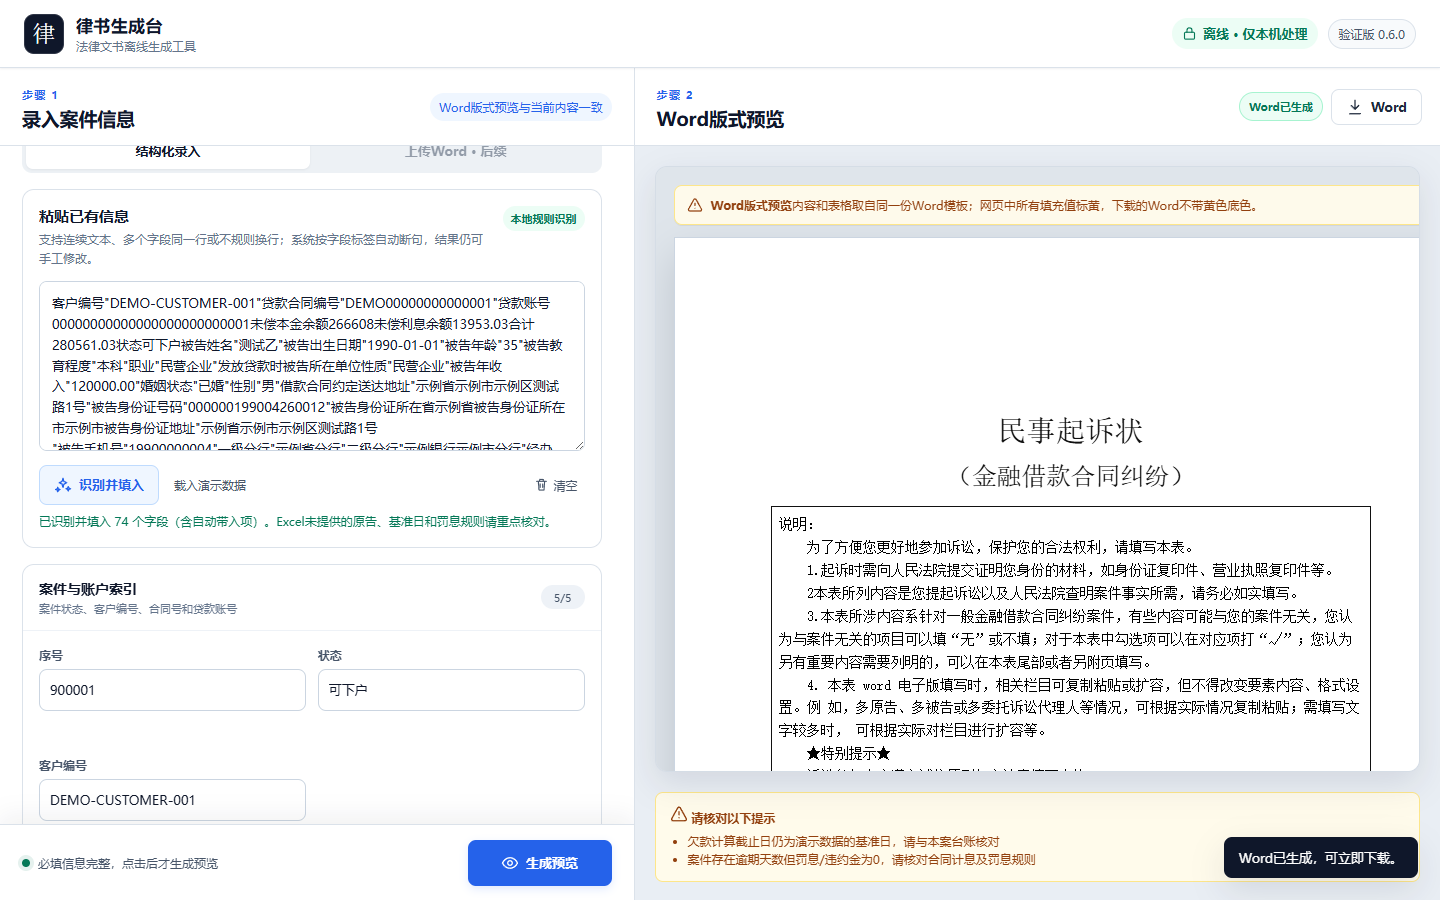
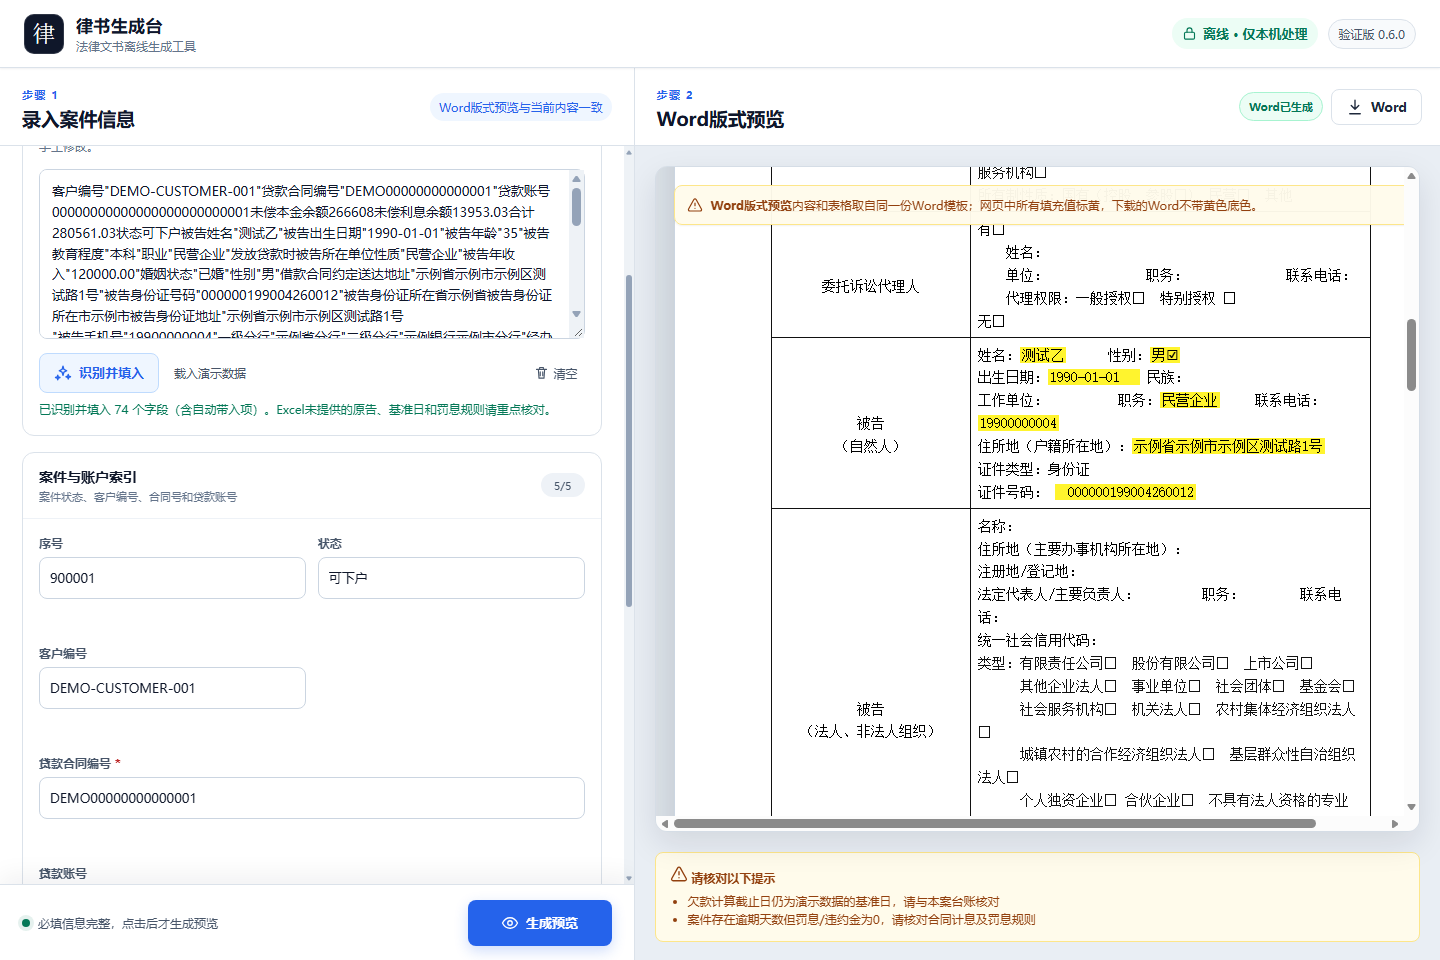
docs: showcase legal workgroup with real product views

diff --git a/README.md b/README.md
@@ -2,169 +2,166 @@
 
 # 飞书法律文书多智能体工作群
 
-**把“案件材料提取与核对 → 起诉状补充与生成”拆成两个可审计的 AI 员工，放进同一个飞书群协作。**
+<picture>
+  <source media="(max-width: 640px)" srcset="docs/assets/readme-hero-mobile.svg">
+  <img src="docs/assets/readme-hero.svg" alt="材料专员与诉状专员在同一飞书群接力，经两次人工确认生成 Word 草稿" width="1200">
+</picture>
+
+**把案件材料提取、人工核对和起诉状生成，串成律师与两个 AI 员工的协作流程。**
+
+[了解工作流](#两个岗位如何协作) · [查看真实界面](#实际运行界面) · [本地体验](#快速开始) · [部署与文档](#部署与文档)
 
 ![Python 3.10+](https://img.shields.io/badge/Python-3.10%2B-3776AB?logo=python&logoColor=white)
-![Feishu](https://img.shields.io/badge/Feishu-2_AI_Employees-3370FF)
-![Status](https://img.shields.io/badge/status-V1_internal_pilot-F59E0B)
-![License](https://img.shields.io/badge/license-proprietary-111827)
+![V1 内部验证](https://img.shields.io/badge/状态-V1_内部验证-365b8c)
+[![License: Proprietary](https://img.shields.io/badge/License-Proprietary-667085)](LICENSE)
 
 </div>
 
 > [!IMPORTANT]
-> 当前版本是律所内部验证版，只支持金融借款合同纠纷场景。生成结果必须经过材料核对、起诉信息确认和律师最终审查，不应直接作为正式法律意见或未经复核的诉讼文件。
+> 当前仅支持**金融借款合同纠纷**，处于律所内部验证阶段。材料核对、起诉信息确认和律师最终审查均须保留；生成结果是待复核的文书草稿。
 
-![律书生成台：结构化录入与 Word 同模板预览](docs/assets/lawsuit-studio-overview.png)
+## 解决什么问题
 
-## 项目解决什么问题
+面向处理金融借款案件的律师与助理，把分散的材料整理、Excel 核对、起诉信息补充和 Word 制作连在一起。**AI 整理与起草，人决定能否进入下一步。**
 
-传统批量诉讼流程里，材料整理、Excel 填表、起诉信息补充和 Word 制作往往分散在多个工具与人员之间。本项目把流程收束到一个飞书内部群，并明确划分为两个岗位：
+### 两个岗位如何协作
 
-| AI 员工 | 输入 | 责任 | 输出 |
-| --- | --- | --- | --- |
-| AI 材料专员 | 案件 ZIP + XLSX 案件表 | 提取 PDF、Word、图片和文件路径中的字段，提示缺失与冲突，等待人工核对 | 经确认的案件字段与 Excel |
-| AI 诉状专员 | 材料专员交接字段 + 起诉专用补充信息 | 校验必填项，套用固定 Word 模板，生成群内可下载草稿 | DOCX 起诉状草稿 |
+| 岗位 / 环节 | 做什么 | 交付什么 |
+| --- | --- | --- |
+| **AI 材料专员** | 读取案件 ZIP 与 XLSX，提取字段，标出缺失与冲突 | 等待人工核对的字段与来源 |
+| **律师 / 助理** | 第一次核对材料并确认交接；第二次补充、确认起诉信息 | 经确认的案件数据 |
+| **AI 诉状专员** | 接收已确认字段，校验必填项，填入固定模板 | 群内可下载的 DOCX 草稿 |
 
-```mermaid
-flowchart LR
-    U[律师 / 助理] -->|ZIP + XLSX| M[AI 材料专员]
-    M --> E[材料提取服务]
-    E --> R{人工核对并生成 Excel}
-    R -->|确认交接| D[AI 诉状专员]
-    D --> S{补充起诉信息}
-    S --> G[Word 生成服务]
-    G -->|DOCX 草稿| U
-```
+**上传材料 → 提取与核对 → 确认交接 → 补充起诉信息 → 生成草稿 → 律师最终审查**
 
-## 已实现能力
+当前 V1 为**单群、单活动案件、单一金融借款模板**。详细状态流转见 [架构说明](docs/architecture.md)。
 
-- 解析案件 ZIP 中的 PDF 文本层、DOCX、图片 OCR 结果和材料路径。
-- 按 XLSX 表头映射字段；保留未验证的既有值，并单独标出缺失和冲突。
-- 83 个起诉状字段的结构化录入、本地文本粘贴识别和人工修正。
-- 基于固定 DOCX 模板生成 Word；网页预览标黄填充值，下载文件自动移除黄色底色。
-- 飞书长连接收消息、文件下载、审核卡片、补充页和 DOCX 回传。
-- SQLite 案件状态、随机访问令牌、事件去重和操作审计记录。
-- 飞书发送超时重试、幂等键和审核卡片失败后的人工重发入口。
-- Windows 本地体验与 Linux + systemd + Nginx 私有部署模板。
+## 实际运行界面
 
-## 系统组成
+### 01 / 材料核对：看清来源，再确认字段
 
-| 服务 | 默认地址 | 主要入口 | 外部依赖 |
-| --- | --- | --- | --- |
-| 律书生成台 | `127.0.0.1:8765` | `server.py` | Python 标准库 |
-| 案件材料提取器 | `127.0.0.1:8777` | `案件材料提取填表工具/server.py` | 内置 pypdf；Windows OCR 或 Linux Tesseract |
-| 飞书工作群编排 | `127.0.0.1:8788` | `python -m feishu_workgroup.run` | `requests`、`lark-oapi`、两个飞书自建应用 |
+![案件材料提取器的实际核对页：展示字段来源、缺失提示和可编辑结果，数据来自虚构测试案例](docs/assets/material-review.png)
 
-更完整的组件边界、数据流和状态机见 [架构说明](docs/architecture.md)。
+使用仓库虚构案例生成 DOCX，再连同测试 XLSX 实际运行提取。结果保留字段来源、缺失提示和人工修改入口；图中数量仅代表这个样例。
 
-## 5 分钟本地复现
+### 02 / 文书生成：结构化录入，同模板预览
 
-### 前提
+![律书生成台实际运行界面：左侧录入虚构案件信息，右侧生成同模板 Word 预览并提供下载](docs/assets/lawsuit-studio-overview.png)
 
-- Windows 10/11；或 Python 3.10+ 的 Linux/macOS 环境。
-- 仅体验诉状生成台时，不需要飞书应用，也不需要安装 Microsoft Word。
-- 启用完整工作群时，需要两个已发布并加入同一内部群的飞书企业自建应用。
+粘贴仓库的虚构示例文本，识别后实际生成预览与 Word。网页标黄填充值便于核对，下载的 DOCX 自动移除黄色底色。
 
-### Windows 一键安装
+## 当前已实现
 
-```powershell
+| 能力 | 当前实现 |
+| --- | --- |
+| **材料整理** | PDF 文本层、DOCX、图片 OCR 与材料路径提取；按 XLSX 表头映射，保留未验证既有值，标出缺失和冲突 |
+| **文书生成** | 83 个结构化字段、本地文本粘贴识别、人工修正、固定 DOCX 模板与同模板网页预览 |
+| **群内协作** | 飞书长连接、文件下载、审核卡片、补充页与 DOCX 回传；发送超时重试和人工重发入口 |
+| **运行与追溯** | SQLite 案件状态、随机访问令牌、事件去重和操作审计；Windows 本地运行与 Linux 私有部署模板 |
+
+## 快速开始
+
+### 先体验诉状生成台
+
+需要 **Python 3.10+**。这个入口只依赖 Python 标准库，无需飞书应用或 Microsoft Word。
+
+```bash
 git clone https://github.com/ZhangShixing0/feishu-legal-ai-workgroup.git
 cd feishu-legal-ai-workgroup
-setup.bat
+python server.py
 ```
 
-只运行诉状生成台：
+打开 `http://127.0.0.1:8765/`，点击 **载入演示数据 → 生成预览 → Word**，即可走完一次虚构案件的文书生成。字段与模板仍需按实际案件复核。
 
-```text
-run.bat
+<details>
+<summary>Windows 一键安装与命令行示例</summary>
+
+在仓库目录运行 `setup.bat` 创建环境并安装依赖，随后用 `run.bat` 启动诉状生成台。
+
+命令行生成完全虚构的示例文书：
+
+```powershell
+python legal_generator.py examples/sample_case.json outputs/manual-test.docx
 ```
 
-浏览器将打开 `http://127.0.0.1:8765/`。
+</details>
 
-### 通用命令安装
+### 再接入完整飞书工作群
+
+需要**两个已发布、已加入同一内部群的飞书企业自建应用**。
 
 ```bash
 python -m venv .venv
 # Windows: .venv\Scripts\activate
 # Linux/macOS: source .venv/bin/activate
 python -m pip install -r requirements.txt
-python server.py
 ```
 
-### 启动完整飞书工作群
+1. 将 `.env.feishu.example` 复制为 `.env.feishu`，填写两个应用的 App ID、App Secret、对外 HTTPS 地址与群白名单 `chat_id`。
+2. 激活环境后运行 `python -m feishu_workgroup.run --check` 检查配置。
+3. Windows 运行 `run_feishu_v1.bat`；持续在线部署按 [部署指南](docs/deployment.md) 配置。
 
-1. 将 `.env.feishu.example` 复制为 `.env.feishu`。
-2. 填写两个应用的 App ID、App Secret、对外 HTTPS 地址和允许使用的群 `chat_id`；生产环境如需识别特定机构或产品，再仅在本地填写 `MATERIAL_BANK_*`、`MATERIAL_LOAN_PRODUCT_*`。
-3. 先检查配置，再启动：
+需要识别特定机构或产品时，仅在本地配置 `MATERIAL_BANK_*`、`MATERIAL_LOAN_PRODUCT_*`。权限、事件订阅和群内操作见 [飞书工作群说明](feishu_workgroup/README.md)。
 
-```powershell
-.venv\Scripts\python.exe -m feishu_workgroup.run --check
-run_feishu_v1.bat
+### 验证安装
+
+```bash
+python tools/run_checks.py
 ```
 
-本地黑色窗口必须保持运行；电脑关机后机器人也会离线。要让群成员持续使用，请按 [部署指南](docs/deployment.md) 把三个服务部署到常开服务器。
+统一执行发布审计、生成器与飞书编排测试、材料提取与 XLSX 写回测试；安装 Node.js 后还会运行前端文本解析测试。CI 使用 `--require-node`。
 
-飞书权限、事件订阅和群内操作步骤见 [飞书工作群说明](feishu_workgroup/README.md)。
+## 部署与文档
 
-## 验证安装
+| 从这里继续 | 内容 |
+| --- | --- |
+| [系统架构](docs/architecture.md) | 三个服务、数据流和案件状态机 |
+| [飞书接入](feishu_workgroup/README.md) | 应用权限、事件订阅、配置和群内操作 |
+| [私有部署](docs/deployment.md) | Linux、systemd、Nginx 与持续在线运行 |
+| [材料提取器](案件材料提取填表工具/README.md) | 独立运行 ZIP → Excel 工具 |
+| [安全说明](docs/security.md) | 数据边界、威胁模型和上线清单 |
+| [项目路线图](docs/roadmap.md) | V1 当前范围与后续队列、权限、模板规划 |
+| [更新记录](CHANGELOG.md) · [贡献指南](CONTRIBUTING.md) | 版本变化和开发约定 |
 
-```powershell
-.venv\Scripts\python.exe tools\run_checks.py
-```
+<details>
+<summary>服务入口与项目目录</summary>
 
-统一检查包括：
+| 服务 | 默认地址 | 入口 |
+| --- | --- | --- |
+| 律书生成台 | `127.0.0.1:8765` | `server.py` |
+| 案件材料提取器 | `127.0.0.1:8777` | `案件材料提取填表工具/server.py` |
+| 飞书工作群编排 | `127.0.0.1:8788` | `python -m feishu_workgroup.run` |
 
-- 仓库发布安全审计；
-- 诉状生成器、服务端和飞书编排单元测试；
-- 材料提取与 XLSX 写回测试；
-- 安装 Node.js 时额外运行前端文本解析测试。
-
-命令行生成一个完全虚构的示例：
-
-```powershell
-.venv\Scripts\python.exe legal_generator.py examples\sample_case.json outputs\manual-test.docx
-```
-
-## 项目目录
+生成台使用 Python 标准库；提取器使用内置 pypdf 与 Windows OCR / Linux Tesseract；飞书编排依赖 `requests`、`lark-oapi` 和两个自建应用。
 
 ```text
-.
-├─ feishu_workgroup/             # 双 AI 员工、状态机、飞书客户端与补充页
-├─ 案件材料提取填表工具/          # ZIP/PDF/DOCX/OCR 提取与 XLSX 写回
-├─ templates/                    # 字段模型与匿名化 Word 模板
-├─ static/                       # 律书生成台前端
-├─ tests/                        # 生成器、服务、飞书与前端测试
-├─ deploy/                       # systemd / Nginx 配置模板
-├─ docs/                         # 架构、安全、部署和路线图
-├─ tools/                        # 统一检查与发布安全审计
-├─ server.py                     # 律书生成服务
-└─ legal_generator.py            # DOCX 生成核心
+feishu_workgroup/        双 AI 员工、状态机、飞书客户端与补充页
+案件材料提取填表工具/     ZIP / PDF / DOCX / OCR 提取与 XLSX 写回
+templates/              字段模型与匿名化 Word 模板
+static/                 律书生成台前端
+tests/                  生成器、服务、飞书与前端测试
+deploy/                 systemd / Nginx 部署模板
+docs/                   架构、安全、部署和路线图
+tools/                  统一检查与发布安全审计
 ```
+
+</details>
 
 ## 数据与安全边界
 
-- `.env.feishu`、`tmp/`、`outputs/`、`work/` 和 `feishu_workgroup/data/` 不进入 Git。
-- 仓库中的姓名、证件号、手机号、地址、账号和截图均为专用虚构测试数据。
-- 飞书版会让原始案件文件进入飞书内部群，安全边界不同于纯本地模式；应关闭外部成员并配置群白名单。
-- 补充页链接使用随机令牌并禁止缓存，但仍不应转发到群外。
-- 生产环境必须使用 HTTPS、最小权限、访问控制、数据留存策略和律师人工复核。
+本地生成台在本机处理材料；**飞书协作版会把原始案件文件带入飞书内部群**，需要关闭外部成员、配置群白名单，并落实 HTTPS、访问控制和数据留存策略。
 
-完整威胁模型和上线清单见 [安全说明](docs/security.md)。
+<details>
+<summary>发布与使用时的具体约束</summary>
 
-## 路线图
+- `.env.feishu`、`tmp/`、`outputs/`、`work/` 与 `feishu_workgroup/data/` 不进入 Git。
+- 仓库示例和产品截图使用专用虚构测试数据；不要向 Issue、PR 或提交历史上传真实材料与凭证。
+- 补充页使用随机令牌并禁止缓存，链接仍不应转发到群外。
+- 本地黑色窗口必须保持运行；电脑关机后机器人也会离线。持续使用需部署到常开服务器。
+- 提交代码前阅读 [贡献指南](CONTRIBUTING.md)，并运行 `python tools/run_checks.py`。
 
-- **V1（当前）**：单群单活动案件、双 AI 员工、两次人工确认、单一金融借款模板。
-- **V1.1**：多案件队列、任务超时恢复、运维状态页、结构化审计导出。
-- **V1.2**：角色权限、留存策略、加密存储、模板版本和回归基线。
-- **V2**：多类案由、多模板、批量任务和字段规则可配置化。
-- **V3**：可评测的模型辅助抽取、证据出处定位、置信度门槛和人机协同学习。
-
-里程碑、验收指标和明确不做的事项见 [项目路线图](docs/roadmap.md)。
-
-## 参与开发
-
-提交代码前请阅读 [贡献指南](CONTRIBUTING.md)，并运行 `python tools/run_checks.py`。严禁把真实案件材料、客户信息、飞书凭证或服务器密钥放入 Issue、Pull Request、测试夹具和提交历史。
+</details>
 
 ## 许可与免责声明
 
-当前仓库未授予开源许可，除非另有书面授权，保留所有权利。项目仅提供技术工作流原型，不构成法律意见，也不能替代执业律师对事实、证据、诉讼请求和最终文书的审查。
+仓库公开供查看，**当前未授予开源许可，保留所有权利**；其他使用须另获书面授权，详见 [LICENSE](LICENSE)。本项目提供技术工作流原型，不构成法律意见，不能替代执业律师对事实、证据、诉讼请求与最终文书的审查。
